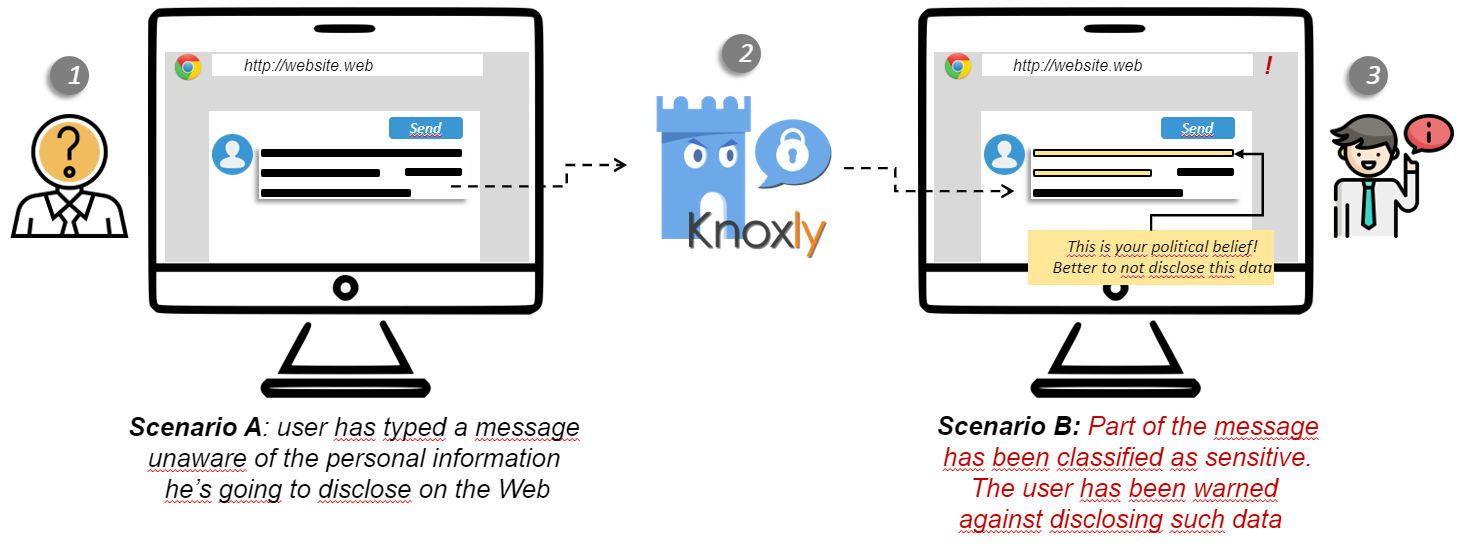
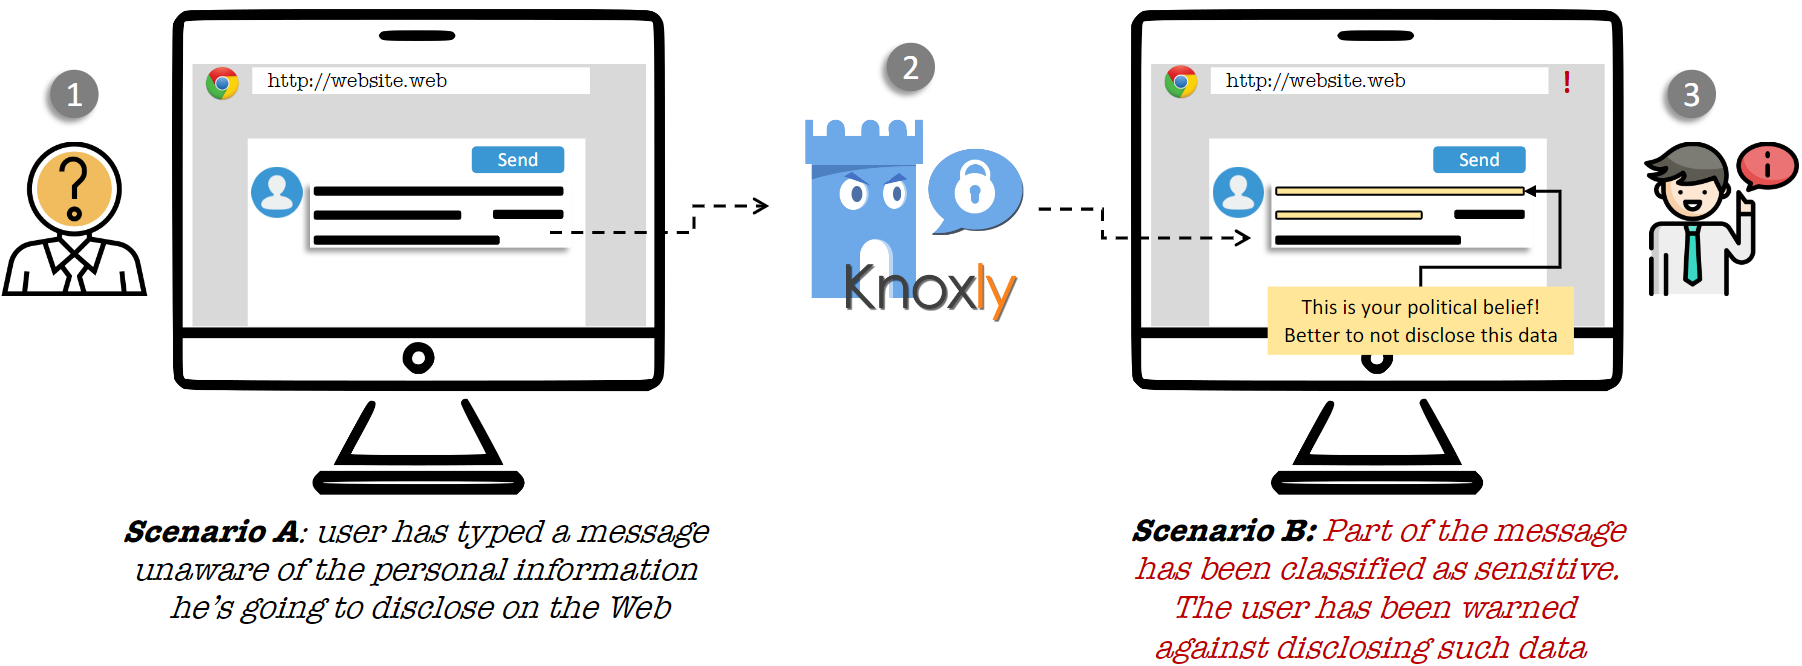
Graphical update
Added images and changed font

diff --git a/templates/index.html b/templates/index.html
@@ -68,6 +68,7 @@
 							<h3 style="color: orange">Knoxly in a nutshell</h3>
 							<p>Knoxly is a prototype <b>plugin</b> for Google <b>Chrome</b>, which <b>alerts/warns</b> you if you are about to <b>disclose private and / or personal information</b> online. Knoxly exploits <b>machine learning</b> models and advanced <b>natural language</b> processing techniques to classify the type of <b>content</b> (topic) and the level of <b>sensitivity</b> of such content within text <b>messages</b>. Knoxly provides <b>awareness</b>, <b>does not block</b> the sending of a message, the <b>final decision</b> on whether or not to share the content it <b>is up to you</b>. Knoxly acts as a <b>trusted</b> entity, it does not use or store your personal data in any way other than to provide you with the services abovementioned. Additionally, Knoxly delivers online learning capabilities, adapting to your privacy attitudes by <b>learning from your feedback</b>. Knoxly currently runs on www.gmail.com and www.telegram.com, but will soon be available for www.twitter.com, www.reddit.com and other popular media.</p>
 							<div style="text-align: center"><img src="static/images/scenario.png" alt="" style="text-align: center; vertical-align:middle; width: 80%" /></div>
+							</br>
 							<p>You can download the <b>beta</b> version from GitHub: you can find the client side <a href="https://github.com/CiccioTecchio/Knoxly"><i>here</i></a>. You can also download a zip file with all our datasets (with and without annotations) at the following <a href=download-zip><i>link</i></a>.
 						</div>
 					</section>
@@ -94,7 +95,7 @@
 							</div>
 							<div class="element">
 								<div>
-									<div class="image presentation pic" style=""><img src="https://icon-library.com/images/generic-user-icon/generic-user-icon-19.jpg" alt="" style="width: 100%; height: 100%"/></div>
+									<div class="image presentation pic" style=""><img src="https://i.ibb.co/Fnn1JYM/Rocco-Zaccagnino.jpg" alt="" style="width: 100%; height: 100%; object-fit: cover;"/></div>
 									<div class="presentation">
 										<h4 style="margin-bottom: -1em">Zaccagnino Rocco</h4>
 										<hr>

diff --git a/static/css/main.css b/static/css/main.css
@@ -147,7 +147,7 @@ i
 		}
 
 	body, input, select, textarea {
-		font-family: Century Gothic, CenturyGothic, AppleGothic, sans-serif;
+		font-family: Arial, Helvetica, sans-serif;
 		font-weight: normal;
 		line-height: 1.5em;
 		letter-spacing: -0.015em;
